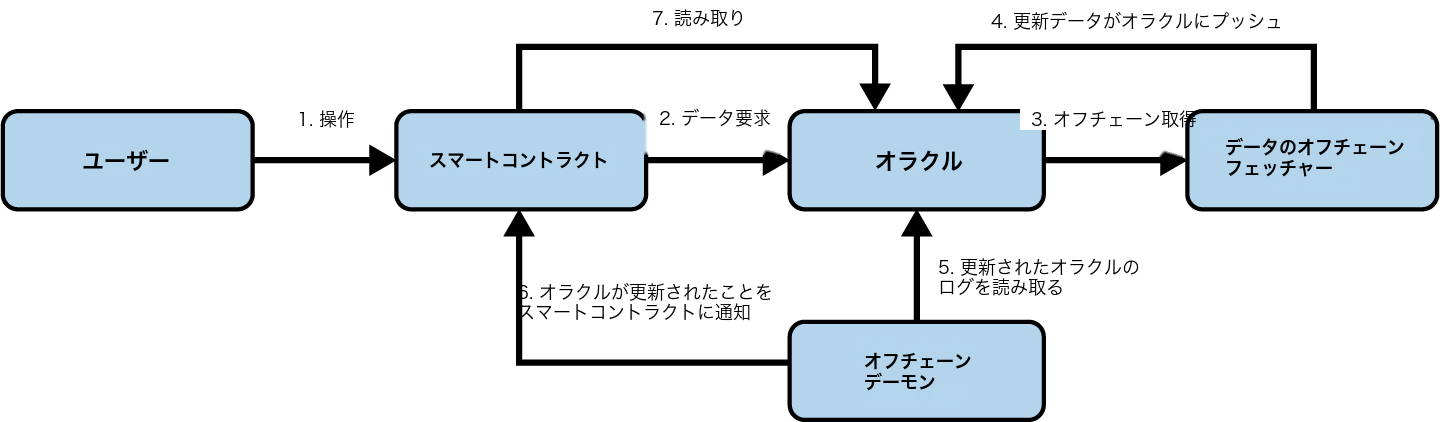
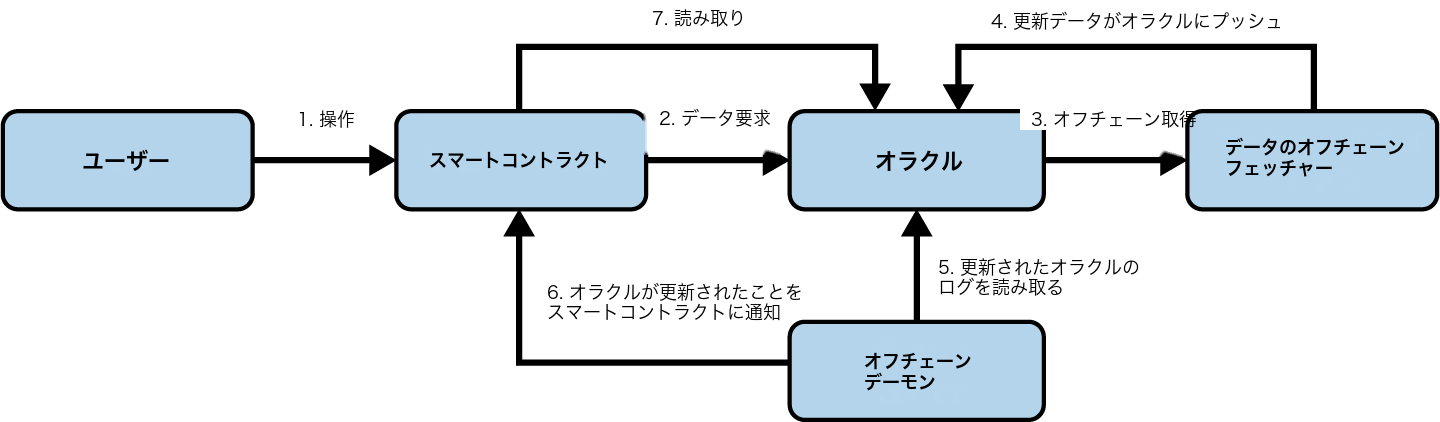
fix(images): 文字と線の被りを解消（1103/1302）
スクリプト追加機能:
- text_offset_x / text_offset_y: 翻訳テキストの描画位置を
  bbox 中央から個別調整
- __extra_preserve_boxes__: 任意座標をマスクから強制除外
  （矢印など連結成分フィルターが取りこぼした線を保護）

ch11/maet_1103: 「6.」が左の上向き矢印に被っていたため
text_offset_x=30 で右にシフト。

ch13/maet_1302: 「BTC または ETH を購入」が下の矢印線に被って
いたため text_offset_y=-10 で上にシフト。さらに矢印線が
build_mask で除去されていたため __extra_preserve_boxes__ で
保護。

Changed region(s): [[0.375, 0.6469, 0.5625, 0.7701]]

diff --git a/scripts/translate_image.py b/scripts/translate_image.py
@@ -132,8 +132,8 @@ def draw_translations(inpainted_bgr: np.ndarray, regions: list[dict]) -> Image.I
 
     for region in regions:
         box = region["box"]
-        cx = (box[0] + box[2]) / 2
-        cy = (box[1] + box[3]) / 2
+        cx = (box[0] + box[2]) / 2 + region.get("text_offset_x", 0)
+        cy = (box[1] + box[3]) / 2 + region.get("text_offset_y", 0)
         box_w = box[2] - box[0]
         box_h = box[3] - box[1]
 
@@ -177,6 +177,8 @@ def translate_image(image_path: str, translation_map: dict, preview: bool = Fals
     extra_mask_boxes = translation_map.pop("__extra_mask_boxes__", [])
     # __extra_mask_boxes_soft__: 連結成分フィルター適用マスク（はみ出し文字の追加マスクに）
     extra_mask_boxes_soft = translation_map.pop("__extra_mask_boxes_soft__", [])
+    # __extra_preserve_boxes__: マスクから強制的に除外する領域（矢印などを保護）
+    extra_preserve_boxes = translation_map.pop("__extra_preserve_boxes__", [])
     # __extra_text_regions__ は OCR を経由せず座標指定で翻訳テキストを描画
     # 形式: [{"box": [x1,y1,x2,y2], "ja": "テキスト", "bold": true, "font_size": 24}, ...]
     extra_text_regions = translation_map.pop("__extra_text_regions__", [])
@@ -218,6 +220,8 @@ def translate_image(image_path: str, translation_map: dict, preview: bool = Fals
             "bold": matched.get("bold", False),
             "size_group": matched.get("size_group"),
             "font_size": matched.get("font_size"),
+            "text_offset_x": matched.get("text_offset_x", 0),
+            "text_offset_y": matched.get("text_offset_y", 0),
         })
         print(f"       '{det['text']}' → '{matched['ja']}'")
 
@@ -233,6 +237,8 @@ def translate_image(image_path: str, translation_map: dict, preview: bool = Fals
         bold = next((v.get("bold", False) for _, v in items if v.get("ja")), False)
         size_group = next((v.get("size_group") for _, v in items if v.get("ja")), None)
         font_size = next((v.get("font_size") for _, v in items if v.get("ja")), None)
+        text_offset_x = next((v.get("text_offset_x") for _, v in items if v.get("ja")), 0) or 0
+        text_offset_y = next((v.get("text_offset_y") for _, v in items if v.get("ja")), 0) or 0
         if ja:
             regions.append({
                 "box": merged_box,
@@ -241,6 +247,8 @@ def translate_image(image_path: str, translation_map: dict, preview: bool = Fals
                 "bold": bold,
                 "size_group": size_group,
                 "font_size": font_size,
+                "text_offset_x": text_offset_x,
+                "text_offset_y": text_offset_y,
             })
             print(f"       (merged '{gname}') → '{ja}'")
 
@@ -273,6 +281,9 @@ def translate_image(image_path: str, translation_map: dict, preview: bool = Fals
             mask[y1:y2, x1:x2] = 255  # 連結成分フィルター無視で全領域マスク
         print(f"       + {len(extra_mask_boxes)} extra mask box(es) [unconditional]")
     for box in preserve_boxes:
+        x1, y1, x2, y2 = box
+        mask[y1:y2, x1:x2] = 0
+    for box in extra_preserve_boxes:
         x1, y1, x2, y2 = box
         mask[y1:y2, x1:x2] = 0
 
